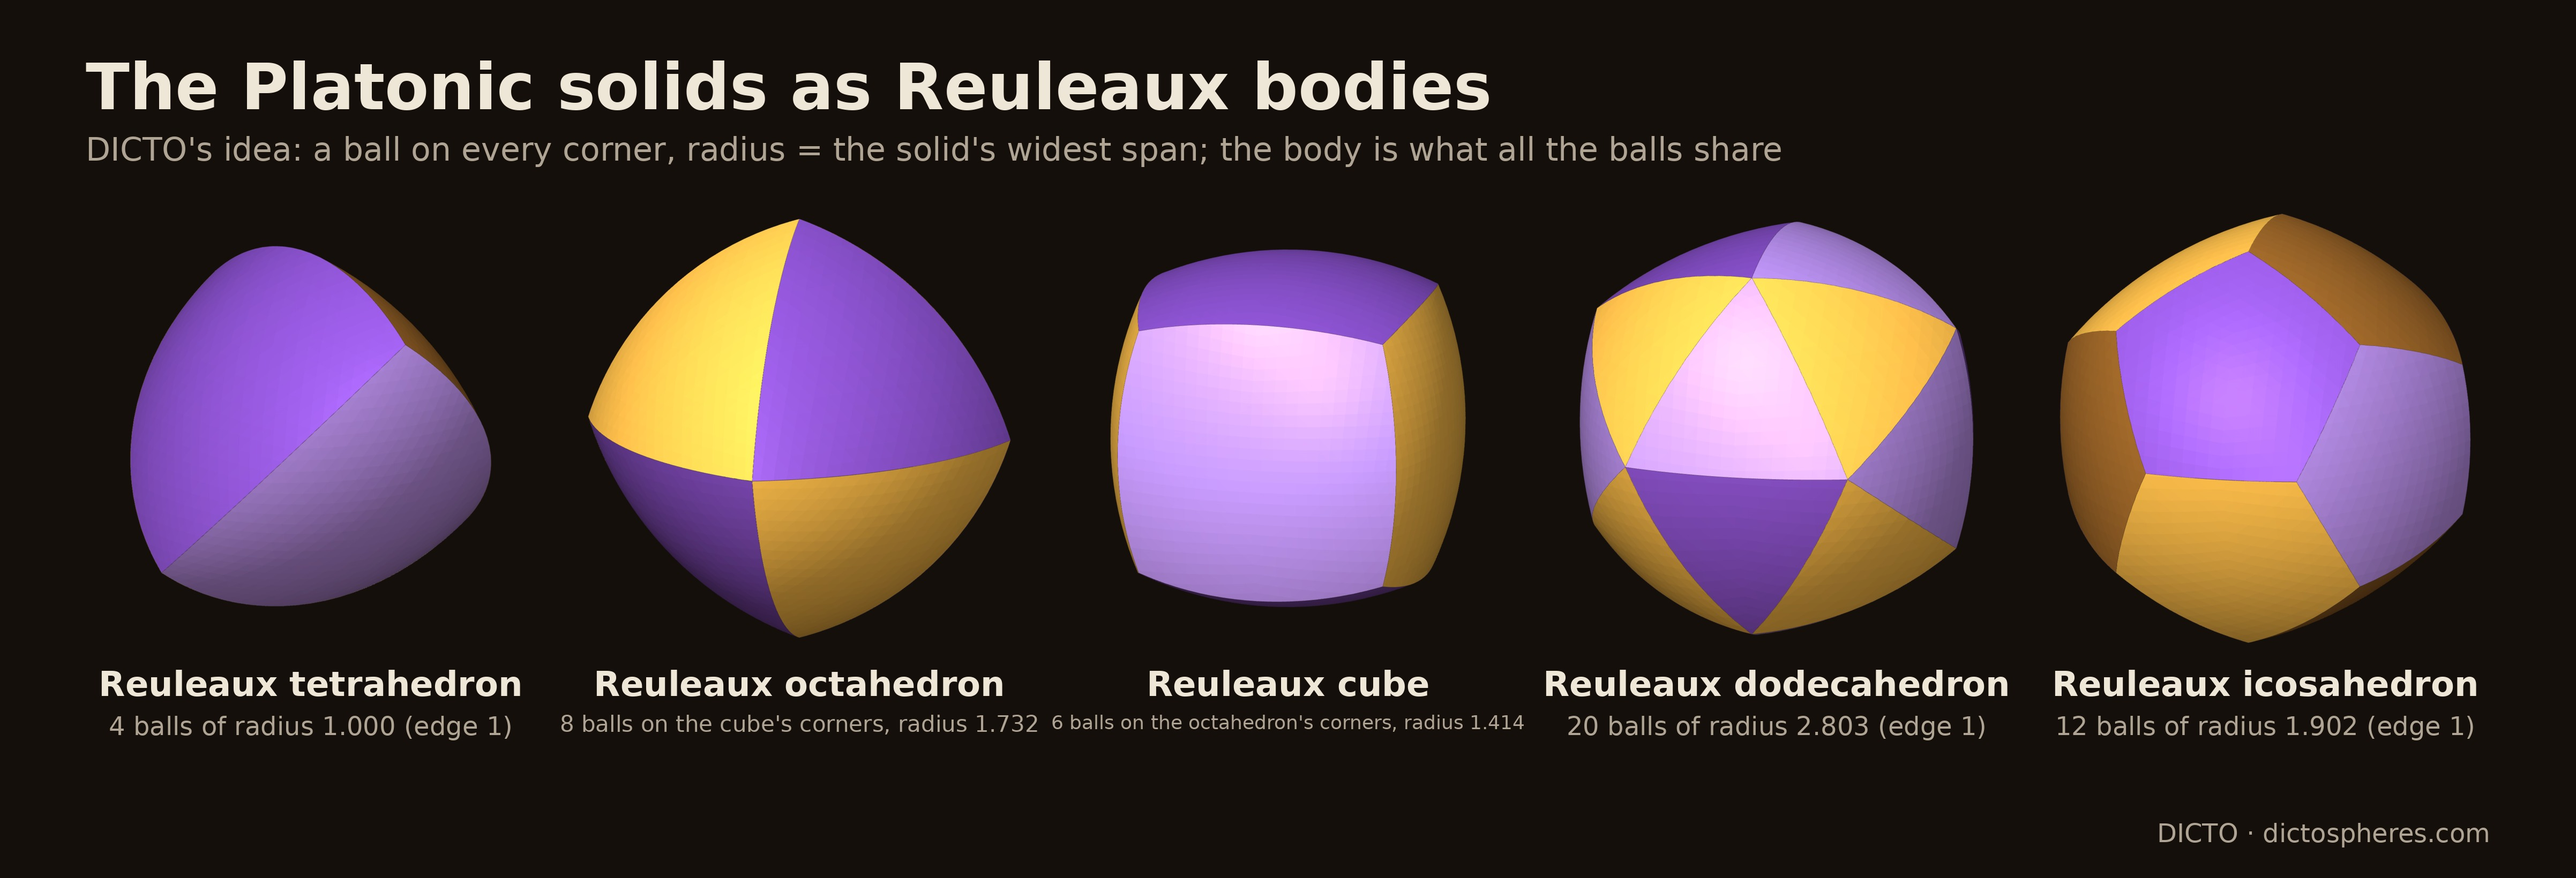
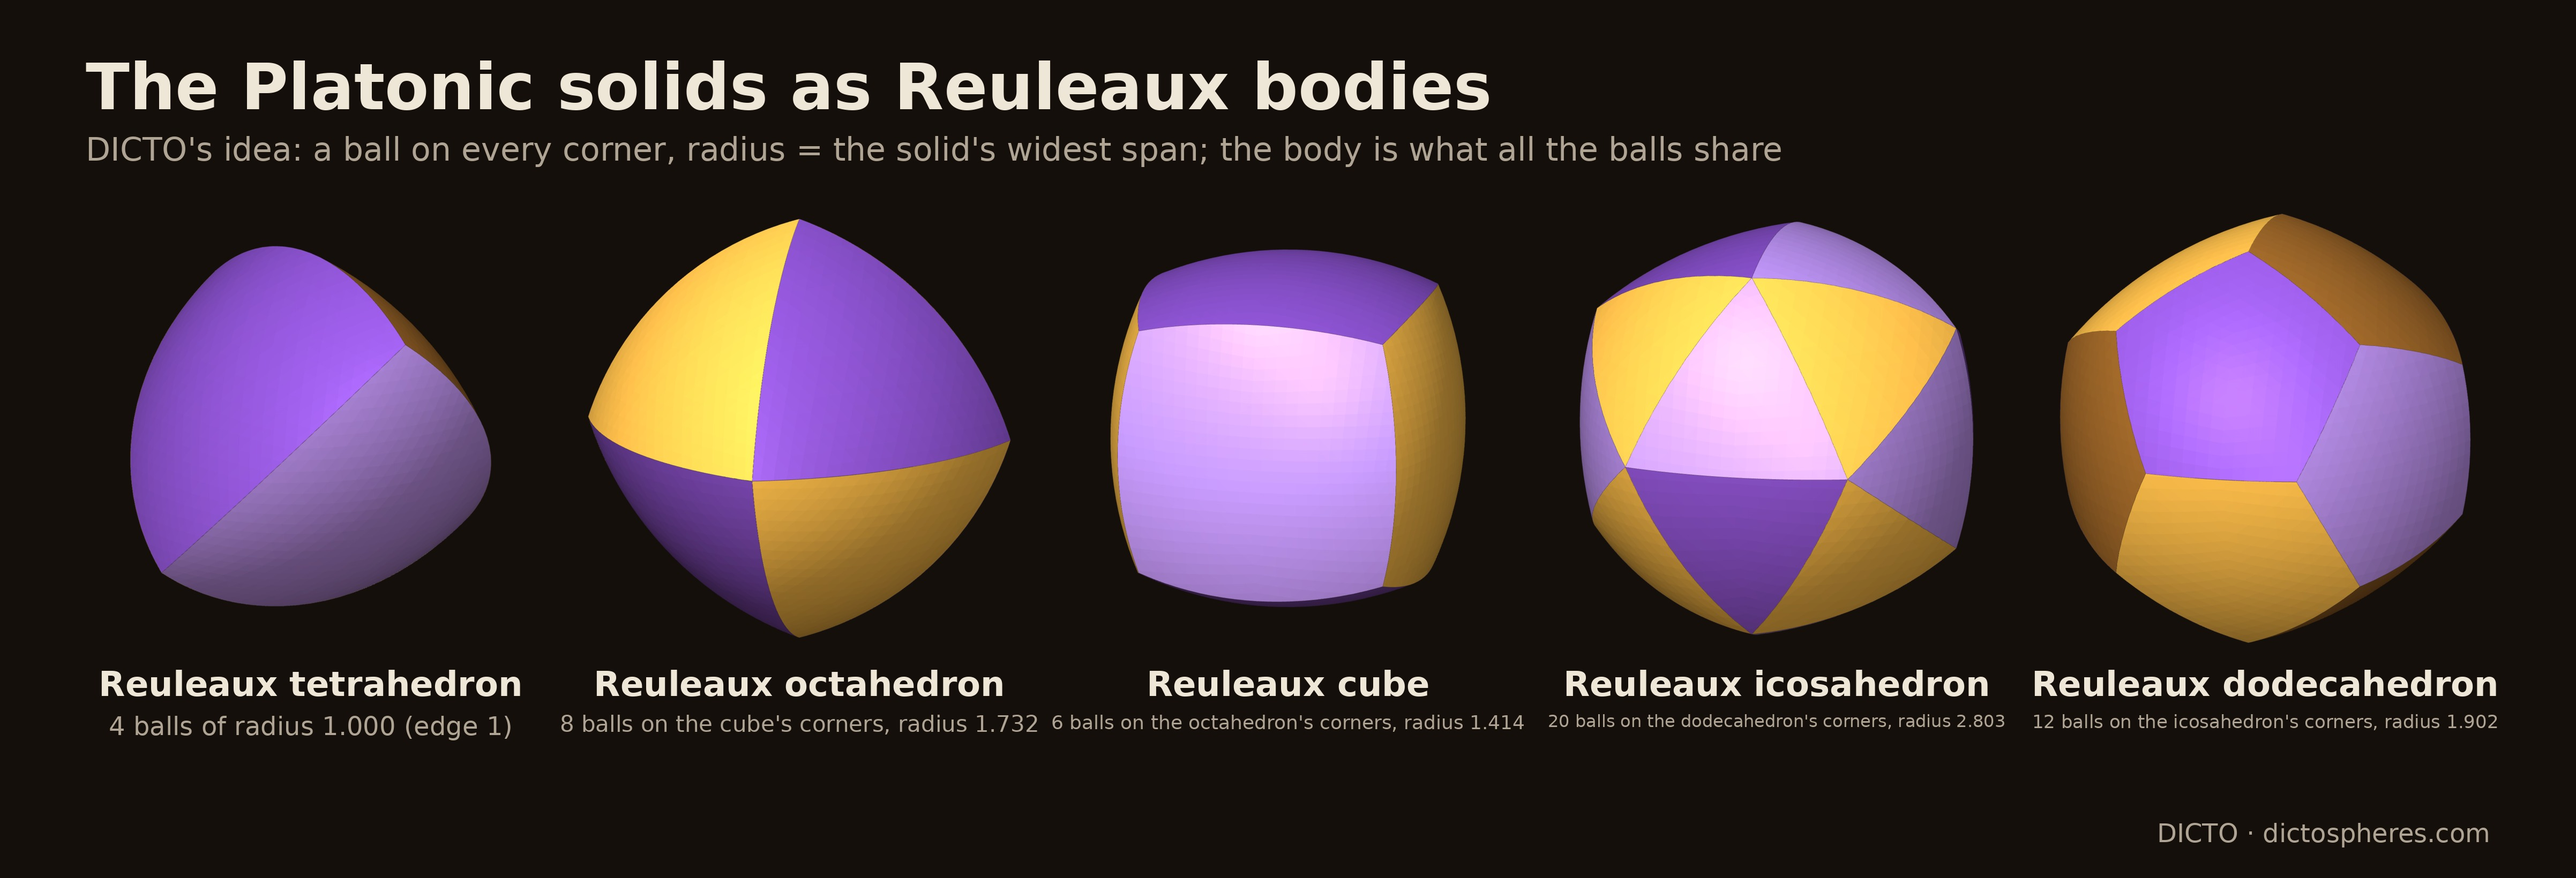
Reuleaux Platonics: name dodecahedron/icosahedron bodies by look too

Changed region(s): [[0.5928, 0.7463, 0.9671, 0.8396]]

diff --git a/studies/2026-10-21-reuleaux-platonic/reuleaux_platonic.py b/studies/2026-10-21-reuleaux-platonic/reuleaux_platonic.py
@@ -13,7 +13,7 @@ S = {'Tetrahedron': [p for p in itertools.product((1, -1), repeat=3) if np.prod(
 GOLD, PURPLE, LILAC, BRONZE = '#d9a441', '#6b3fa0', '#9a78c8', '#8a5a24'
 rng = np.random.default_rng(0); U = rng.normal(size=(4000, 3)); U /= np.linalg.norm(U, axis=1)[:, None]
 scenes = []
-LOOK = {'Cube': 'Octahedron', 'Octahedron': 'Cube'}       # DICTO 10-21: name each body by its look (balls on a cube's corners look octahedral)
+LOOK = {'Cube': 'Octahedron', 'Octahedron': 'Cube', 'Dodecahedron': 'Icosahedron', 'Icosahedron': 'Dodecahedron'}       # DICTO 10-21: name each body by its look (balls on a cube's corners look octahedral)
 for name, Vs in S.items():
     V = np.array(Vs, float); E = min(np.linalg.norm(a - b) for a, b in itertools.combinations(V, 2)); V /= E
     D = max(np.linalg.norm(a - b) for a, b in itertools.combinations(V, 2))
